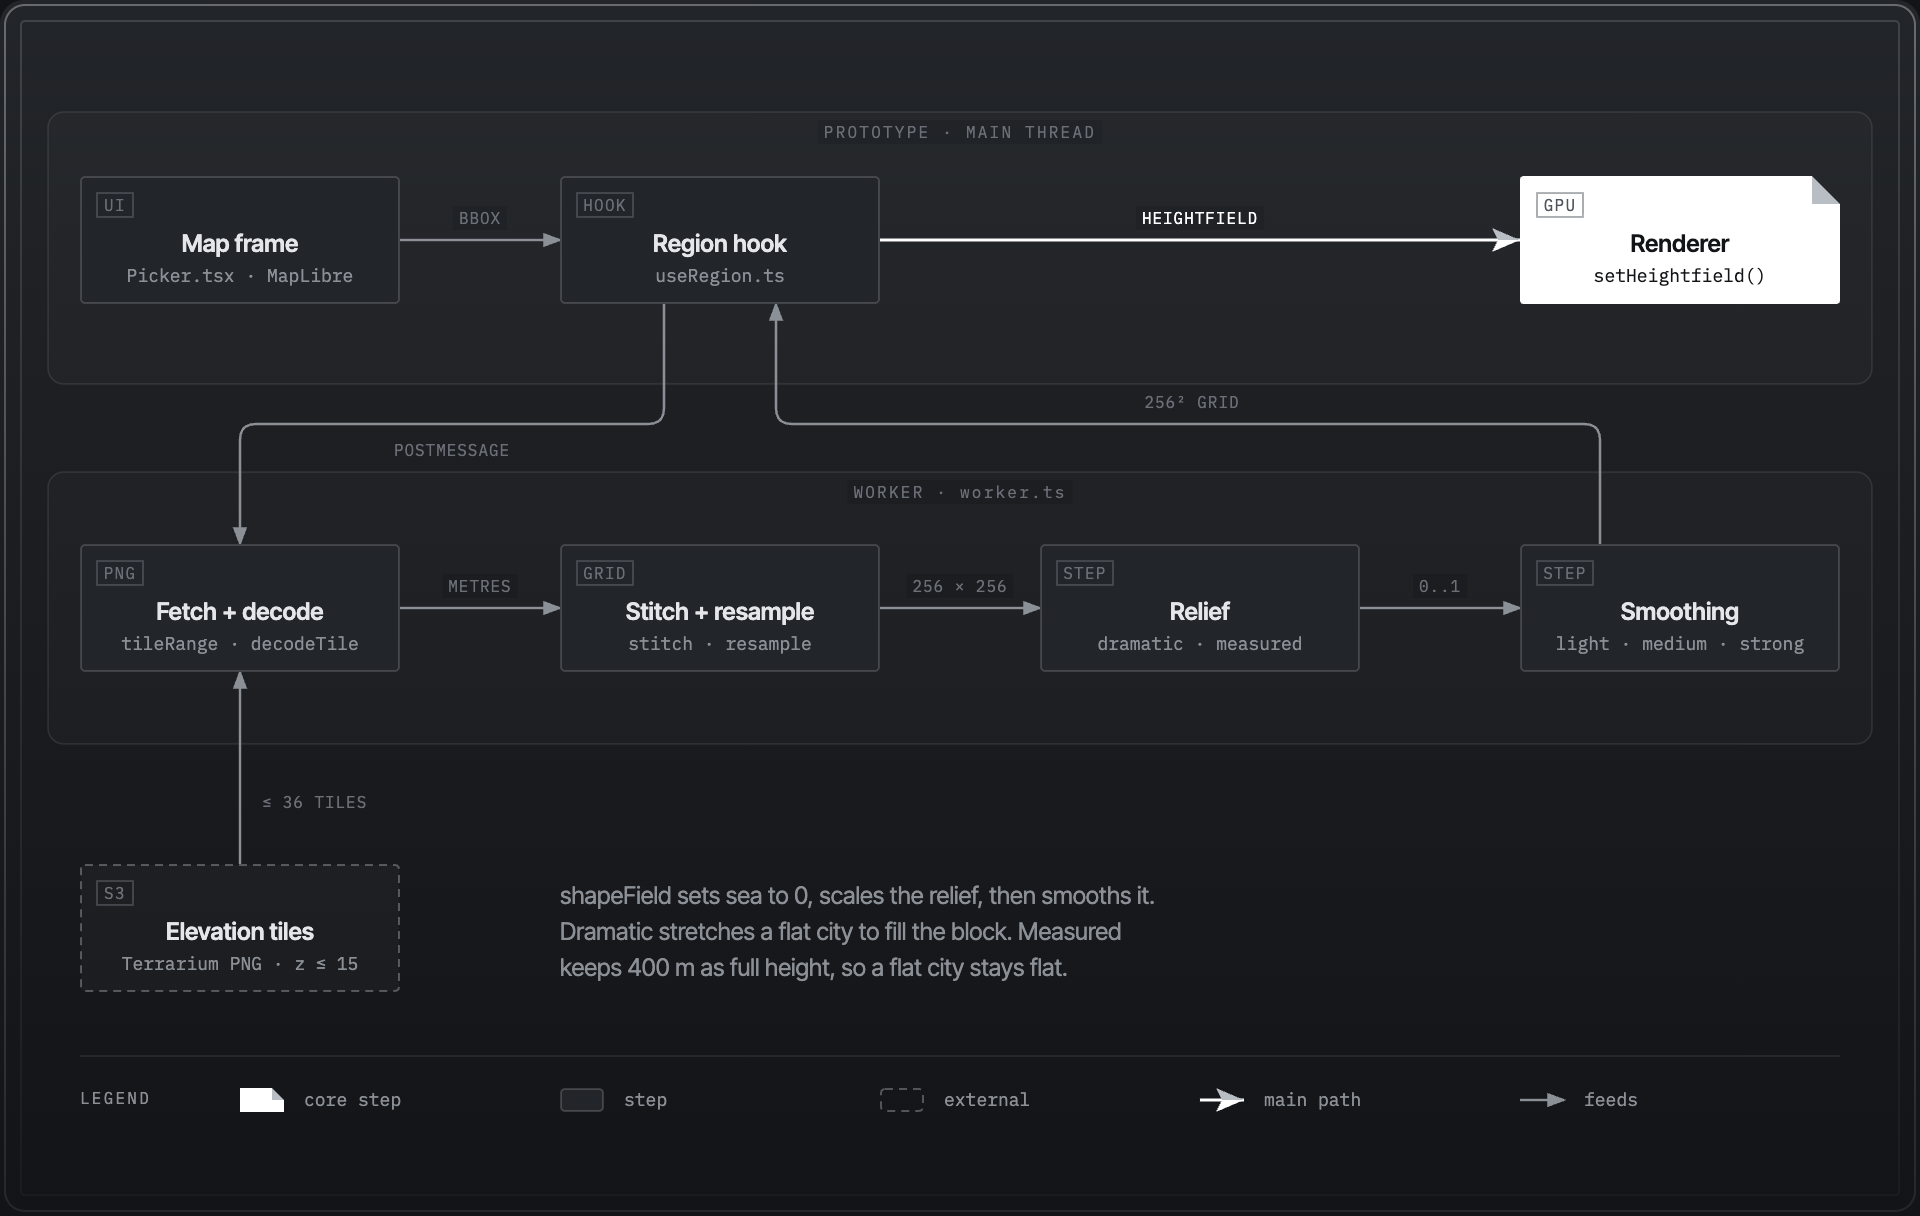
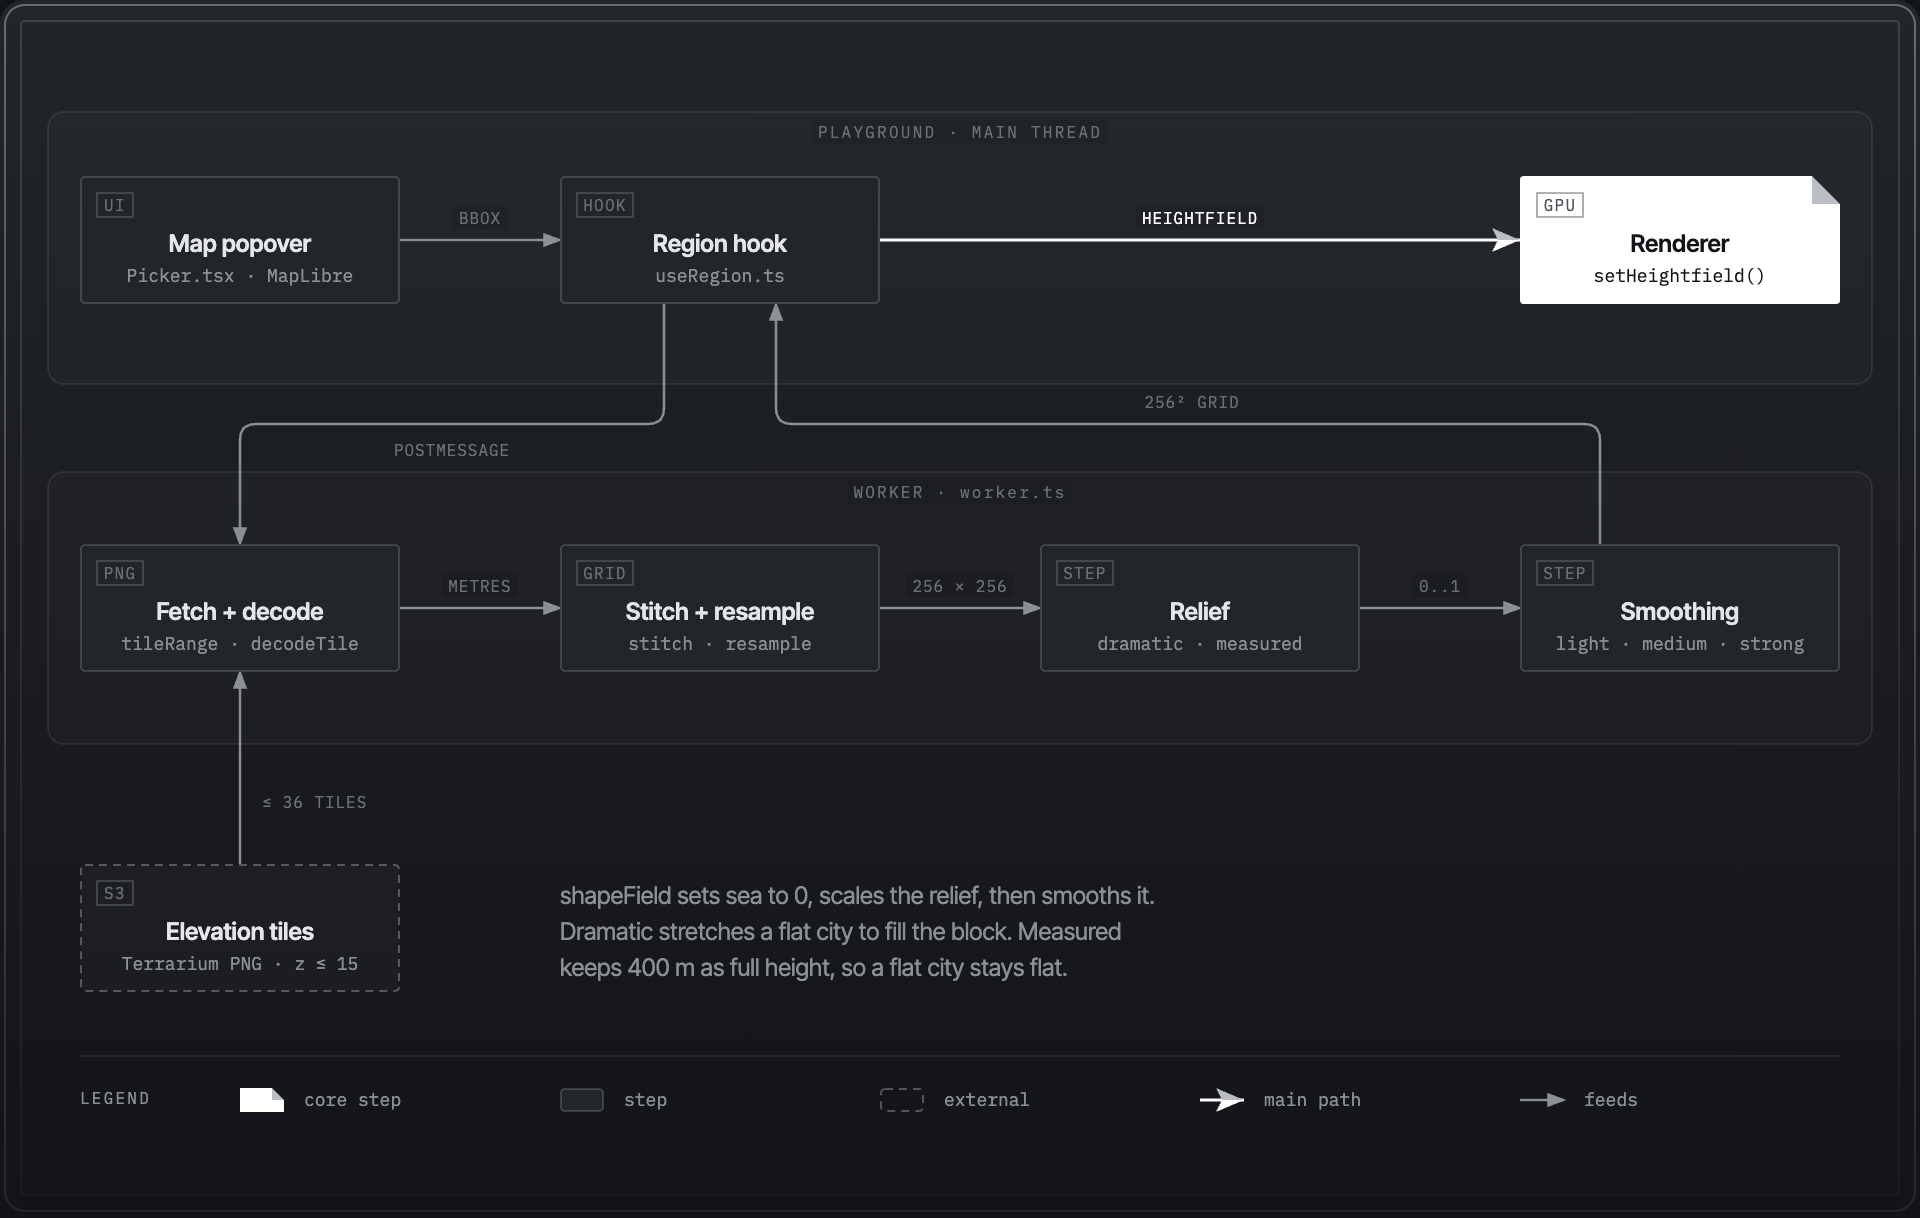
name the map popover and url state in the diagrams and re-export them

diff --git a/assets/images/diagrams/library-architecture.html b/assets/images/diagrams/library-architecture.html
@@ -53,7 +53,7 @@ svg { width: 100%; min-width: 960px; display: block; }
 <rect x="223.8" y="231" width="32.4" height="12" fill="url(#tile)"/>
 <text x="240.0" y="240" fill="#6b7078" font-size="8" font-family="'IBM Plex Mono', ui-monospace, monospace" text-anchor="middle" letter-spacing="0.06em">PROPS</text>
 <rect x="225.9" y="359" width="64.1" height="12" fill="url(#tile)"/>
-<text x="258.0" y="368" fill="#6b7078" font-size="8" font-family="'IBM Plex Mono', ui-monospace, monospace" text-anchor="middle" letter-spacing="0.06em">PANEL STATE</text>
+<text x="258.0" y="368" fill="#6b7078" font-size="8" font-family="'IBM Plex Mono', ui-monospace, monospace" text-anchor="middle" letter-spacing="0.06em">URL STATE</text>
 <rect x="396.0" y="435" width="48.2" height="12" fill="url(#tile)"/>
 <text x="420.1" y="444" fill="#6b7078" font-size="8" font-family="'IBM Plex Mono', ui-monospace, monospace" text-anchor="middle" letter-spacing="0.06em">OPTIONAL</text>
 <rect x="458.5" y="231" width="43.0" height="12" fill="url(#tile)"/>
@@ -142,7 +142,7 @@ svg { width: 100%; min-width: 960px; display: block; }
 <text x="780.0" y="489.5" fill="#6b7078" font-size="8" font-family="'IBM Plex Mono', ui-monospace, monospace" text-anchor="middle" letter-spacing="0.08em">MP4</text>
 <text x="840.0" y="510" fill="#e4e6e9" font-size="12" font-weight="600" font-family="'Inter Tight', system-ui, sans-serif" text-anchor="middle">Video export</text>
 <text x="840.0" y="525" fill="#8b9097" font-size="9" font-family="'IBM Plex Mono', ui-monospace, monospace" text-anchor="middle">record() · video.ts</text>
-<text font-size="12" font-family="'Inter Tight', system-ui, sans-serif" fill="#8b9097"><tspan x="40" y="484">One table defines every setting.</tspan><tspan x="40" y="502">Types, element attributes, React</tspan><tspan x="40" y="520">props, playground sliders and</tspan><tspan x="40" y="538">docs all derive from it.</tspan></text>
+<text font-size="12" font-family="'Inter Tight', system-ui, sans-serif" fill="#8b9097"><tspan x="40" y="484">One table defines every setting.</tspan><tspan x="40" y="502">Types, element attributes, React</tspan><tspan x="40" y="520">props, playground controls and</tspan><tspan x="40" y="538">docs all derive from it.</tspan></text>
 <line x1="40" y1="584" x2="920" y2="584" stroke="rgba(228,230,233,0.10)" stroke-width="0.8"/>
 <text x="40" y="608" fill="#8b9097" font-size="8" font-family="'IBM Plex Mono', ui-monospace, monospace" letter-spacing="0.14em">LEGEND</text>
 <path d="M120 600H136L142 606V612H120Z" fill="#ffffff"/><path d="M136 600L142 606H136Z" fill="#b9bec4"/>

diff --git a/assets/images/diagrams/real-place-pipeline.html b/assets/images/diagrams/real-place-pipeline.html
@@ -23,7 +23,7 @@ svg { width: 100%; min-width: 960px; display: block; }
 <div class="diagram-container">
 <svg viewBox="0 0 960 608" xmlns="http://www.w3.org/2000/svg" role="img" aria-labelledby="real-place-pipeline-title real-place-pipeline-desc">
 <title id="real-place-pipeline-title">Real-place pipeline</title>
-<desc id="real-place-pipeline-desc">How a real place becomes a terrain in the playground: the map frame gives a bounding box, a worker fetches and decodes Terrarium elevation tiles, stitches and resamples them to a 256 by 256 grid, scales the relief and smooths it, and the hook hands the heightfield to the renderer with setHeightfield().</desc>
+<desc id="real-place-pipeline-desc">How a real place becomes a terrain in the playground: the Map popover gives a bounding box, a worker fetches and decodes Terrarium elevation tiles, stitches and resamples them to a 256 by 256 grid, scales the relief and smooths it, and the hook hands the heightfield to the renderer with setHeightfield().</desc>
 <defs>
 <linearGradient id="tile" x1="0" y1="0" x2="0" y2="608" gradientUnits="userSpaceOnUse"><stop offset="0" stop-color="#222529"/><stop offset="1" stop-color="#131417"/></linearGradient>
 <linearGradient id="rim1" x1="0" y1="0" x2="0" y2="608" gradientUnits="userSpaceOnUse"><stop offset="0" stop-color="#fff" stop-opacity="0.32"/><stop offset="1" stop-color="#fff" stop-opacity="0.08"/></linearGradient>
@@ -68,7 +68,7 @@ svg { width: 100%; min-width: 960px; display: block; }
 <rect x="40.5" y="88.5" width="159" height="63" rx="2" fill="#222529" stroke="rgba(255,255,255,0.16)" stroke-width="1"/>
 <rect x="48.5" y="96.5" width="18" height="12" fill="none" stroke="#6b7078" stroke-opacity="0.6" stroke-width="0.8"/>
 <text x="57.5" y="105.5" fill="#6b7078" font-size="8" font-family="'IBM Plex Mono', ui-monospace, monospace" text-anchor="middle" letter-spacing="0.08em">UI</text>
-<text x="120.0" y="126" fill="#e4e6e9" font-size="12" font-weight="600" font-family="'Inter Tight', system-ui, sans-serif" text-anchor="middle">Map frame</text>
+<text x="120.0" y="126" fill="#e4e6e9" font-size="12" font-weight="600" font-family="'Inter Tight', system-ui, sans-serif" text-anchor="middle">Map popover</text>
 <text x="120.0" y="141" fill="#8b9097" font-size="9" font-family="'IBM Plex Mono', ui-monospace, monospace" text-anchor="middle">Picker.tsx · MapLibre</text>
 <rect x="280" y="88" width="160" height="64" rx="2" fill="url(#tile)"/>
 <rect x="280.5" y="88.5" width="159" height="63" rx="2" fill="#222529" stroke="rgba(255,255,255,0.16)" stroke-width="1"/>
